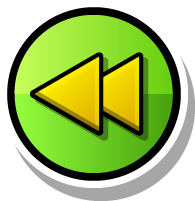
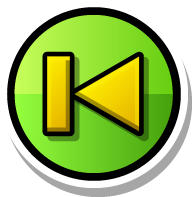
fix a few things

diff --git a/src/crow_pages/callback.html b/src/crow_pages/callback.html
@@ -1,0 +1,11 @@
+<!DOCTYPE html>
+<html lang="en">
+<head>
+    <meta charset="UTF-8">
+    <meta name="viewport" content="width=device-width, initial-scale=1.0">
+    <title>Dashify Successful!</title>
+</head>
+<body>
+    <h1>Dashify Authorization Successful!</h1>
+</body>
+</html>

diff --git a/src/UI/Playhead.cpp b/src/UI/Playhead.cpp
@@ -3,6 +3,8 @@
 EventListener<web::WebTask> m_playbackListener;
 EventListener<web::WebTask> m_imageDataListener;
 
+float requestSleepTime = 1.5f;
+
 bool Playhead::init(Spotify* spotify) {
     this->spotify = spotify;
 
@@ -13,9 +15,9 @@ bool Playhead::init(Spotify* spotify) {
     menu->setPosition({0.f, 0.f});
     this->addChild(menu);
 
-    auto background = CCScale9Sprite::create("GJ_square01.png", {0.f, 0.f, 80.f, 80.f});
-    background->setContentSize({220.f, background->getContentHeight() + 25.f});
-    background->setPosition({director->getScreenRight() - 115.f, director->getScreenTop() - 60.f});
+    auto background = CCScale9Sprite::create("GJ_square05.png", {0.f, 0.f, 80.f, 80.f});
+    background->setContentSize({220.f, background->getContentHeight() - 10.f});
+    background->setPosition({director->getScreenRight() - 115.f, director->getScreenTop() - 40.f});
     background->setID("dashify-playhead-background");
     menu->addChild(background);
 
@@ -36,57 +38,61 @@ bool Playhead::init(Spotify* spotify) {
             this,
             menu_selector(Playhead::onPauseOrPlay)
         );
-        m_playControlButton->setPosition({background->getPositionX(), background->getPositionY() - 30.f});
+        m_playControlButton->setPosition({background->getPositionX() + 60.f, background->getPositionY()});
         m_playControlButton->setScale(0.75f);
         m_playControlButton->setID("dashify-play-control-button");
         menu->addChild(m_playControlButton);
 
+        auto skipButtonSprite = CCSprite::createWithSpriteFrameName("fast-forward-button.png"_spr);
+        skipButtonSprite->setScale(0.6f);
+
         auto skipSongButton = CCMenuItemSpriteExtra::create(
-            CCSprite::createWithSpriteFrameName("fast-forward-button.png"_spr),
+            skipButtonSprite,
             this,
             menu_selector(Playhead::onSkip)
         );
-        skipSongButton->setPosition({m_playControlButton->getPositionX() + 40.f, m_playControlButton->getPositionY()});
-        skipSongButton->setScale(0.6f);
+        skipSongButton->setPosition({m_playControlButton->getPositionX() + 30.f, m_playControlButton->getPositionY()});
         skipSongButton->setID("dashify-skip-song-button");
         menu->addChild(skipSongButton);
 
+        CCSprite* previousButtonSprite = CCSprite::createWithSpriteFrameName("back-button.png"_spr);
+        previousButtonSprite->setScale(0.6f);
+
         auto previousSongButton = CCMenuItemSpriteExtra::create(
-            CCSprite::createWithSpriteFrameName("back-button.png"_spr),
+            previousButtonSprite,
             this,
             menu_selector(Playhead::onPrevious)
         );
-        previousSongButton->setPosition({m_playControlButton->getPositionX() - 40.f, m_playControlButton->getPositionY()});
-        previousSongButton->setScale(0.6f);
+        previousSongButton->setPosition({m_playControlButton->getPositionX() - 30.f, m_playControlButton->getPositionY()});
         previousSongButton->setID("dashify-previous-song-button");
         menu->addChild(previousSongButton);
 
         m_songTitleLabel = CCLabelBMFont::create("", "bigFont.fnt");
-        m_songTitleLabel->setPosition({background->getPositionX() + 30.f, background->getPositionY() + 35.f});
-        m_songTitleLabel->setScale(0.25f);
+        m_songTitleLabel->setPosition({background->getPositionX() - 24.f, background->getPositionY() + 15.f});
+        m_songTitleLabel->setScale(0.2f);
         m_songTitleLabel->setID("dashify-song-title-label");
         menu->addChild(m_songTitleLabel);
 
         m_albumTitleLabel = CCLabelBMFont::create("", "bigFont.fnt");
-        m_albumTitleLabel->setPosition({background->getPositionX() + 30.f, background->getPositionY() + 22.5f});
-        m_albumTitleLabel->setScale(0.25f);
+        m_albumTitleLabel->setPosition({background->getPositionX() - 24.f, background->getPositionY() + 2.5f});
+        m_albumTitleLabel->setScale(0.2f);
         m_albumTitleLabel->setID("dashify-album-title-label");
         menu->addChild(m_albumTitleLabel);
 
         m_songArtistsLabel = CCLabelBMFont::create("", "bigFont.fnt");
-        m_songArtistsLabel->setPosition({background->getPositionX() + 30.f, background->getPositionY() + 10.f});
-        m_songArtistsLabel->setScale(0.25f);
+        m_songArtistsLabel->setPosition({background->getPositionX() - 24.f, background->getPositionY() - 10.f});
+        m_songArtistsLabel->setScale(0.2f);
         m_songArtistsLabel->setID("dashify-song-artists-label");
         menu->addChild(m_songArtistsLabel);
 
         m_albumCoverSprite = CCSprite::createWithSpriteFrameName("default-album-cover.png"_spr);
-        m_albumCoverSprite->setPosition({background->getPositionX() - 70.f, background->getPositionY() + 15.f});
-        m_albumCoverSprite->setScale(0.75f);
+        m_albumCoverSprite->setPosition({background->getPositionX() - 84.f, background->getPositionY()});
+        m_albumCoverSprite->setScale(0.25f);
         m_albumCoverSprite->setID("dashify-album-cover-sprite");
         menu->addChild(m_albumCoverSprite);
 
         this->setPlayback();
-        this->schedule(schedule_selector(Playhead::setPlayback), 2.f);
+        this->schedule(schedule_selector(Playhead::setPlayback), requestSleepTime);
         
         this->m_isPauseButton = true;
     }
@@ -101,62 +107,83 @@ void Playhead::setPlayback() {
     m_playbackListener.bind([=, this] (web::WebTask::Event* e) {
         if (web::WebResponse* res = e->getValue()) {
             if (res->code() == 429) {
-                Notification::create("Dashify Error: Too Many Requests", NotificationIcon::Error)->show();
+                requestSleepTime = 3.f;
             } else if (res->ok()) {
                 std::vector<Artist*> artists;
 
-                auto jsonRes = res->json().unwrap();
-                auto isPlaying = jsonRes["is_playing"].as_bool();
-                auto albumCoverURL = jsonRes["item"]["album"]["images"][0]["url"].as_string();
-                auto albumName = jsonRes["item"]["album"]["name"].as_string();
-                auto songName = jsonRes["item"]["name"].as_string();
+                auto body = res->string().unwrapOr("no-spotify");
+                log::info("playback body: {}", body);
+                if (body != "no-spotify") {
+                    auto jsonRes = res->json().unwrap();
+                    auto isPlaying = jsonRes["is_playing"].as_bool();
+                    auto albumCoverURL = jsonRes["item"]["album"]["images"][0]["url"].as_string();
+                    auto albumName = jsonRes["item"]["album"]["name"].as_string();
+                    auto songName = jsonRes["item"]["name"].as_string();
 
-                auto artistsJSON = jsonRes["item"]["artists"].as_array();
-                for (auto artist : artistsJSON) {
-                    artists.push_back(new Artist(artist["name"].as_string()));
-                }
+                    auto artistsJSON = jsonRes["item"]["artists"].as_array();
+                    for (auto artist : artistsJSON) {
+                        artists.push_back(new Artist(artist["name"].as_string()));
+                    }
 
-                m_imageDataListener.bind([=, this] (web::WebTask::Event* e) {
-                    if (web::WebResponse* res = e->getValue()) {
-                        if (res->ok()) {
-                            auto imageData = res->data();
-                            CCImage* image = new CCImage();
-                            image->initWithImageData(const_cast<uint8_t*>(imageData.data()), imageData.size());
-                            
-                            CCTexture2D* texture = new CCTexture2D();
-                            texture->initWithImage(image);
+                    if (albumName.size() > 16) {
+                        albumName.erase(16, std::string::npos);
+                        albumName += "...";
+                    }
 
-                            this->m_albumCoverSprite->initWithTexture(texture);
-                            this->m_albumCoverSprite->setScale(0.35f);
+                    if (songName.size() > 16) {
+                        songName.erase(16, std::string::npos);
+                        songName += "...";
+                    }
 
-                            image->release();
-                            texture->release();
+                    m_imageDataListener.bind([=, this] (web::WebTask::Event* e) {
+                        if (web::WebResponse* res = e->getValue()) {
+                            if (res->ok()) {
+                                auto imageData = res->data();
+                                CCImage* image = new CCImage();
+                                image->initWithImageData(const_cast<uint8_t*>(imageData.data()), imageData.size());
+                                
+                                CCTexture2D* texture = new CCTexture2D();
+                                texture->initWithImage(image);
+
+                                this->m_albumCoverSprite->initWithTexture(texture);
+                                this->m_albumCoverSprite->setScale(0.25f);
+
+                                image->release();
+                                texture->release();
+                            }
+                        } else if (e->isCancelled()) {
+                            log::error("Error with image data");
                         }
-                    } else if (e->isCancelled()) {
-                        log::error("Error with image data");
+                    });
+
+                    auto playButtonSprite = CCSprite::createWithSpriteFrameName("GJ_playBtn2_001.png");
+                    playButtonSprite->setScale(0.5f);
+
+                    this->m_playControlButton->setSprite((isPlaying) ? CCSprite::createWithSpriteFrameName("GJ_pauseEditorBtn_001.png") : playButtonSprite);
+                    this->m_playControlButton->setScale(0.75f);
+
+                    auto imageReq = web::WebRequest();
+                    m_imageDataListener.setFilter(imageReq.get(albumCoverURL));
+
+                    this->m_albumTitleLabel->setString(fmt::format("On {}", albumName).c_str());
+                    this->m_songTitleLabel->setString(songName.c_str());
+
+                    std::string artistsLabelText = "By ";
+                    for (int i = 0; i < artists.size(); i++) {
+                        if (artists[i] != artists.back()) {
+                            artistsLabelText += artists[i]->name + ", ";
+                        } else {
+                            artistsLabelText += artists[i]->name;
+                        }
                     }
-                });
 
-                auto playButtonSprite = CCSprite::createWithSpriteFrameName("GJ_playBtn2_001.png");
-                playButtonSprite->setScale(0.5f);
-
-                this->m_playControlButton->setSprite((isPlaying) ? CCSprite::createWithSpriteFrameName("GJ_pauseEditorBtn_001.png") : playButtonSprite);
-
-                auto imageReq = web::WebRequest();
-                m_imageDataListener.setFilter(imageReq.get(albumCoverURL));
-
-                this->m_albumTitleLabel->setString(fmt::format("On {}", albumName).c_str());
-                this->m_songTitleLabel->setString(songName.c_str());
-
-                std::string artistsLabelText = "By ";
-                for (int i = 0; i < artists.size(); i++) {
-                    if (artists[i] != artists.back()) {
-                        artistsLabelText += artists[i]->name + ", ";
-                    } else {
-                        artistsLabelText += artists[i]->name;
+                    if (artistsLabelText.size() > 16) {
+                        artistsLabelText.erase(16, std::string::npos);
+                        artistsLabelText += "...";
                     }
+
+                    this->m_songArtistsLabel->setString(artistsLabelText.c_str());
                 }
-                this->m_songArtistsLabel->setString(artistsLabelText.c_str());
             }
         } else if (e->isCancelled()) {
             log::error("playback request was cancelled");
@@ -185,7 +212,9 @@ void Playhead::onPauseOrPlay(CCObject* sender) {
     auto playButtonSprite = CCSprite::createWithSpriteFrameName("GJ_playBtn2_001.png");
     playButtonSprite->setScale(0.5f);
 
-    senderNode->setSprite((this->m_isPauseButton) ? playButtonSprite : CCSprite::createWithSpriteFrameName("GJ_pauseEditorBtn_001.png"));
+    auto pauseButtonSprite = CCSprite::createWithSpriteFrameName("GJ_pauseEditorBtn_001.png");
+
+    senderNode->setSprite((this->m_isPauseButton) ? playButtonSprite : pauseButtonSprite);
     senderNode->setScale(0.75f);
     if (this->m_isPauseButton) {
         this->spotify->pausePlayback();
@@ -197,16 +226,10 @@ void Playhead::onPauseOrPlay(CCObject* sender) {
 }
 
 void Playhead::onSkip(CCObject* sender) {
-    auto senderNode = static_cast<CCMenuItemSpriteExtra*>(sender);
-    senderNode->setScale(0.6f);
-
     this->spotify->skipSong();
 }
 
 void Playhead::onPrevious(CCObject* sender) {
-    auto senderNode = static_cast<CCMenuItemSpriteExtra*>(sender);
-    senderNode->setScale(0.6f);
-
     this->spotify->previousSong();
 }
 

diff --git a/src/main.cpp b/src/main.cpp
@@ -10,7 +10,7 @@ using namespace geode::prelude;
 #include <Geode/modify/CCKeyboardDispatcher.hpp>
 
 Spotify* m_spotify;
-bool showPlayhead;
+bool showPlayhead = true;
 
 $on_mod(Loaded) {
 	m_spotify = new Spotify();
@@ -40,13 +40,15 @@ class $modify(DashifyMenuLayer, MenuLayer) {
 			this->addChild(menu);
 			SceneManager::get()->keepAcrossScenes(menu);
 
+			auto dashifyButtonSprite = CCSprite::createWithSpriteFrameName("dashify-button.png"_spr);
+			dashifyButtonSprite->setScale(.65f);
+
 			auto dashifyPlayheadButton = CCMenuItemSpriteExtra::create(
-				CCSprite::createWithSpriteFrameName("dashify-button.png"_spr),
+				dashifyButtonSprite,
 				this,
 				menu_selector(DashifyMenuLayer::onDashifyButton)
 			);
 			dashifyPlayheadButton->setPosition({director->getScreenLeft() + 19.f, director->getScreenTop() - 50.f});
-			dashifyPlayheadButton->setScale(0.65f);
 			dashifyPlayheadButton->setID("dashify-button");
 			menu->addChild(dashifyPlayheadButton);
 		}
@@ -55,9 +57,6 @@ class $modify(DashifyMenuLayer, MenuLayer) {
 	}
 
 	void onDashifyButton(CCObject* sender) {
-		auto senderNode = static_cast<CCMenuItemSpriteExtra*>(sender);
-		senderNode->setScale(0.65f);
-
 		if (CCScene::get()->getChildByID("dashify-playhead")) {
 			auto playheadNode = CCScene::get()->getChildByID("dashify-playhead");
 

diff --git a/src/Spotify/AuthWebserver.cpp b/src/Spotify/AuthWebserver.cpp
@@ -26,12 +26,14 @@ void Webserver::createServer() {
         if (state.empty()) {
             log::info("state was not found");
         } else {
+            res.write("Dashify Authorized! You can safely return to Geometry Dash.");
             this->m_spotify->getAccessToken(code);
         }
 
         res.end();
     });
 
+    app.loglevel(crow::LogLevel::Warning);
     app.port(18080).multithreaded().run_async();
 }
 

diff --git a/about.md b/about.md
@@ -1,7 +1,7 @@
 # Dashify
 
 Dashify brings Spotify Integration to GD! You can see your currently playing song and control your playback (if you have Spotify Premium).  
-You can also toggle the Playhead using either the button located at the top left of your screen or by pressing Q.
+You can also toggle the Playhead using either the button located at the top left of your screen or by pressing P.
 
 We do NOT collect any of your data via the use of this mod. All data is stored locally on your machine.
 
